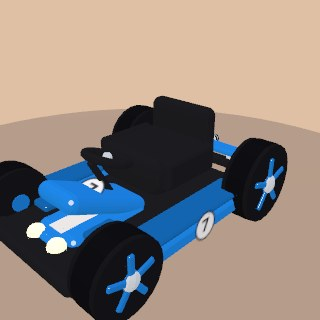
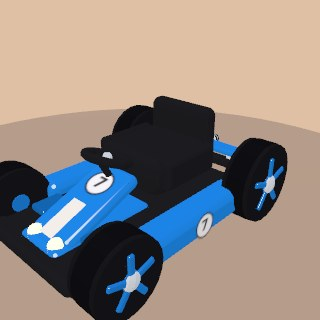
Fix the kart nose slope + paint the numbers flush on cowl and pods
- The raked nose panel used rotation.x = -RAKE, which actually raises the
  FRONT end (Rx maps +z to (0, -sin, cos)) — the cowl climbed the wrong
  way and the number decal faced down-backward, so it showed its mirrored
  back face and clipped through the panel. Flipped to +RAKE: the panel
  now dips into the nose stub and rises to the wheel, face tilted
  up-forward like the reference kart.
- The number roundel and racing stripe lie exactly parallel on the
  panel's face, a hair proud — painted on, upright, readable from the
  front, with the roundel tucked right under the wheel.
- Side pods collapsed to ONE clean shape each (no more cap seam), sized
  so the flush roundel fits fully inside the flat outer face.

Claude-Session: https://claude.ai/code/session_017fyz1DfGtQ1NoLSq3UX5Bd

Changed region(s): [[0.0625, 0.5, 0.4688, 0.8125], [0.4375, 0.5625, 0.75, 0.8125]]

diff --git a/src/models.js b/src/models.js
@@ -1408,29 +1408,35 @@ export function createKartModel(bodyColor = 0xe53935, opts = {}) {
         rail.rotation.x = Math.PI / 2;
         rail.position.set(sx * 1.02, 0.34, 0.15);
       }
-      // SHORT nose, real-kart shape: a low stub barely past the front wheels,
-      // and a raked cowl sweeping up from it to the steering wheel — with the
-      // number roundel painted on the cowl's face, like the reference kart.
+      // SHORT nose, real-kart shape: a low under-stub barely past the front
+      // wheels, and ONE continuous raked panel running from the stub up to the
+      // wheel — low at the front, high at the driver — with the number roundel
+      // and the racing stripe lying FLUSH on its face like paint.
       const snout = st.snout ?? 1.55;
-      const stub = add(new THREE.Mesh(rbox(0.95, 0.3, 1.5, 0.15), paint));
-      stub.position.set(0, 0.46, snout - 0.55);
-      const stubTip = add(new THREE.Mesh(rbox(0.7, 0.26, 0.5, 0.13), paint));
-      stubTip.position.set(0, 0.44, snout + 0.12);
-      const cowl = add(new THREE.Mesh(rbox(0.88, 0.3, 1.6, 0.15), paint));
-      cowl.position.set(0, 0.82, 0.85);
-      cowl.rotation.x = -0.42; // sweeps up toward the wheel
-      // Number roundel lying on the cowl's raked face.
-      const cowlNum = new THREE.Mesh(new THREE.PlaneGeometry(0.52, 0.52), numMat);
-      cowlNum.position.set(0, 0.99, 0.93);
-      cowlNum.rotation.x = -(Math.PI / 2 - 0.42); // flush on the raked panel
+      const RAKE = 0.39; // the panel's climb toward the wheel
+      const stub = add(new THREE.Mesh(rbox(0.95, 0.26, 1.9, 0.13), paint));
+      stub.position.set(0, 0.44, snout - 0.45);
+      const cowl = add(new THREE.Mesh(rbox(0.88, 0.24, 1.55, 0.12), paint));
+      cowl.position.set(0, 0.78, 1.0);
+      // +RAKE = front end dips into the stub, rear rises to the wheel, and the
+      // panel's face tilts up-FORWARD so the number reads from the front.
+      cowl.rotation.x = RAKE;
+      // Decals lie a hair proud of the panel, exactly parallel to its face —
+      // painted on, not floating (the face normal is (0, cos RAKE, sin RAKE)).
+      const cowlNum = new THREE.Mesh(new THREE.PlaneGeometry(0.5, 0.5), numMat);
+      cowlNum.position.set(0, 1.03, 0.73);
+      cowlNum.rotation.x = -(Math.PI / 2 - RAKE);
       roundels.push(cowlNum);
-      // Little accent winglets flanking the cowl (the reference's red fins).
+      const noseStripe = add(new THREE.Mesh(new THREE.PlaneGeometry(0.3, 0.7), stripe));
+      noseStripe.position.set(0, 0.74, 1.44);
+      noseStripe.rotation.x = -(Math.PI / 2 - RAKE);
+      // Little accent winglets flanking the panel (the reference's red fins).
       for (const sx of [-1, 1]) {
         const winglet = add(new THREE.Mesh(rbox(0.36, 0.12, 0.52, 0.05), accent));
-        winglet.position.set(sx * 0.64, 0.66, 1.2);
+        winglet.position.set(sx * 0.64, 0.6, 1.25);
       }
-      const column = add(new THREE.Mesh(new THREE.CylinderGeometry(0.06, 0.06, 0.8, 8), dark));
-      column.position.set(0, 1.08, 0.68);
+      const column = add(new THREE.Mesh(new THREE.CylinderGeometry(0.06, 0.06, 0.7, 8), dark));
+      column.position.set(0, 1.18, 0.58);
       column.rotation.x = 0.5;
       // Wrap-around bumpers, front and rear (dark, low, at rail height). The
       // front one is wide and close, guarding the front wheels like the real thing.
@@ -1438,18 +1444,13 @@ export function createKartModel(bodyColor = 0xe53935, opts = {}) {
       bumperF.position.set(0, 0.4, snout + 0.5);
       const bumperR = add(new THREE.Mesh(rbox(1.85, 0.2, 0.26, 0.12), dark));
       bumperR.position.set(0, 0.42, -2.35);
-      // Low side pods between the wheels, accent-capped, wearing the roundels.
+      // Low side pods between the wheels — ONE clean shape each, with the
+      // roundel flush on the flat outer face so the number reads as painted on.
       for (const sx of [-1, 1]) {
-        const pod = add(new THREE.Mesh(rbox(0.52, 0.34, 2.3, 0.12), paint));
-        pod.position.set(sx * 1.18, 0.46, -0.1);
-        const podCap = add(new THREE.Mesh(rbox(0.52, 0.1, 2.3, 0.05), accent));
-        podCap.position.set(sx * 1.18, 0.66, -0.1);
+        const pod = add(new THREE.Mesh(rbox(0.52, 0.5, 2.3, 0.16), paint));
+        pod.position.set(sx * 1.18, 0.5, -0.1);
       }
-      addRoundels(1.46, 0.5, -0.1, 0.5);
-      // Racing stripe down the low nose stub.
-      const noseStripe = add(new THREE.Mesh(new THREE.PlaneGeometry(0.32, 1.4), stripe));
-      noseStripe.rotation.x = -Math.PI / 2;
-      noseStripe.position.set(0, 0.611, snout - 0.55);
+      addRoundels(1.45, 0.5, -0.1, 0.44);
       // Bare bucket seat: tall back + side bolsters (nothing to sink into now).
       const seatBack = add(new THREE.Mesh(rbox(1.35, 1.05, 0.34, 0.16), dark));
       seatBack.position.set(0, 1.38, -1.26);
